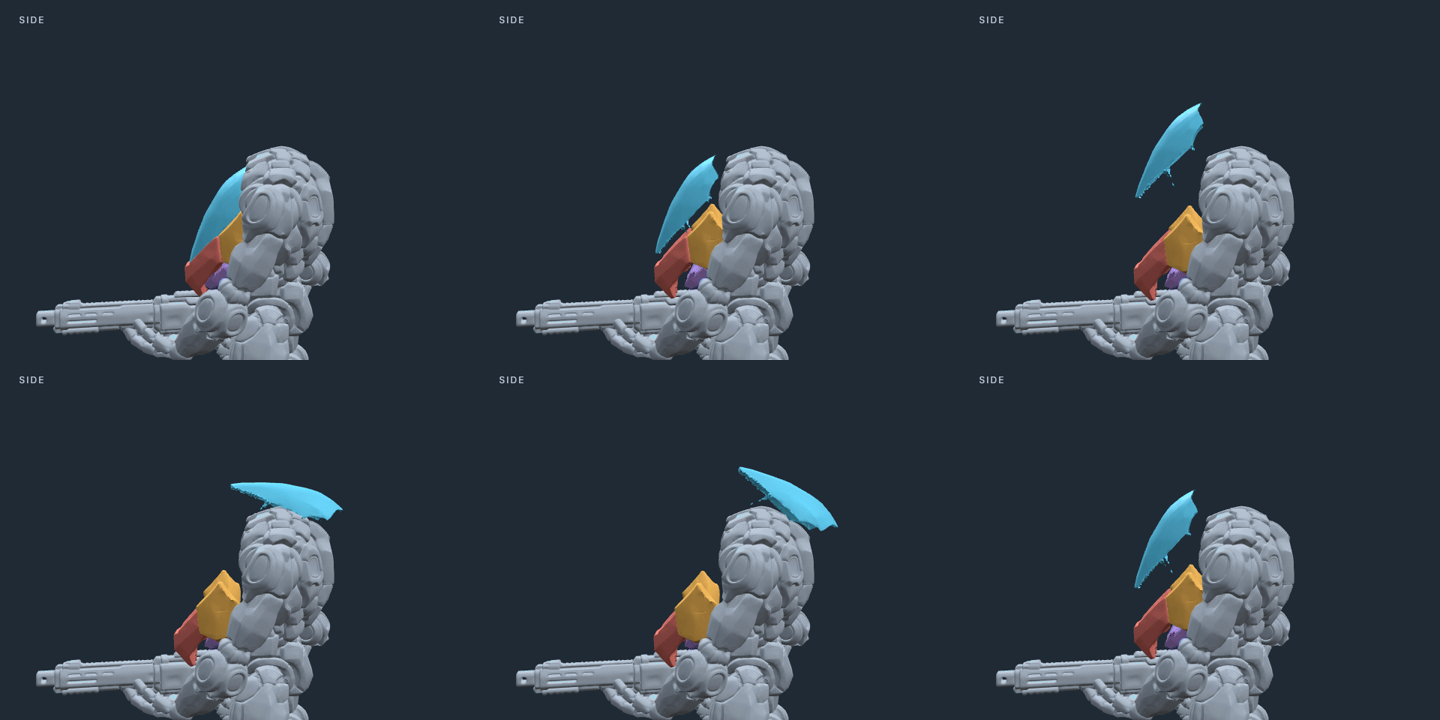
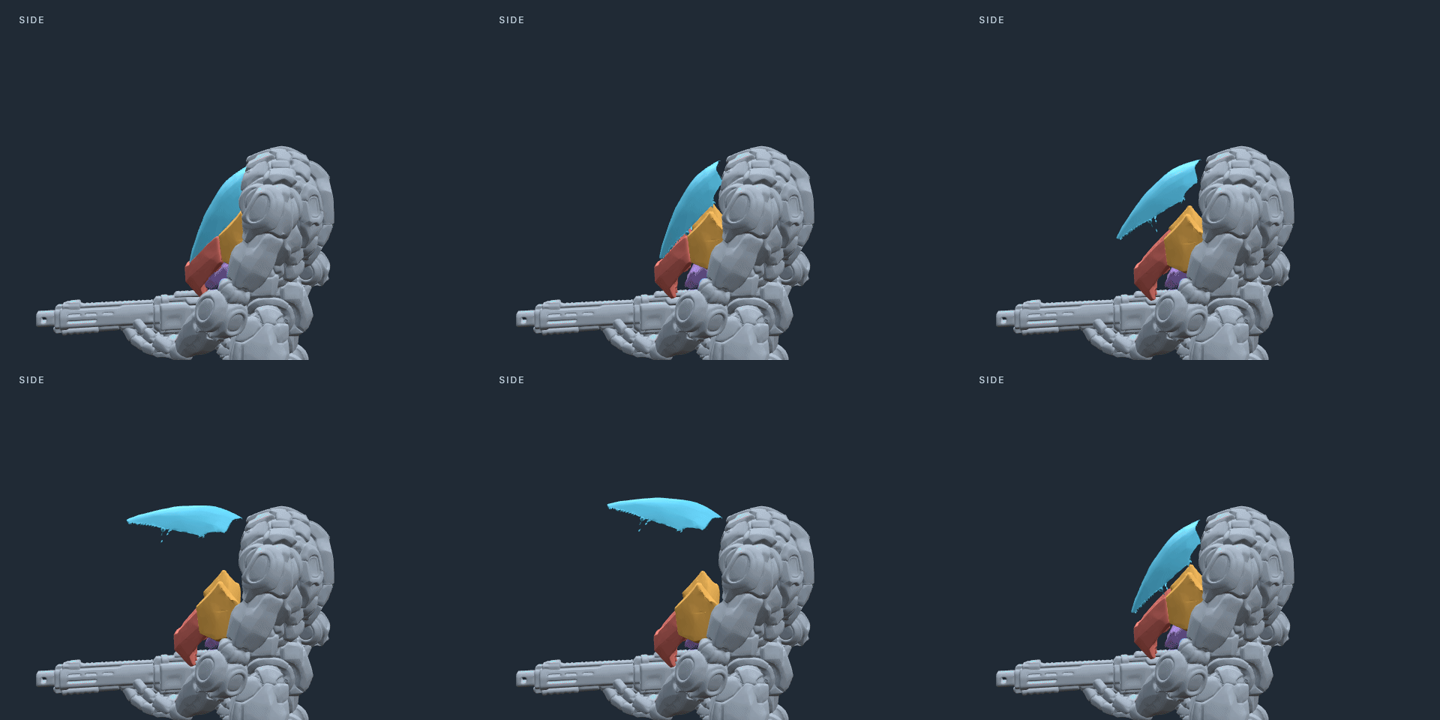
refine: lower canopy zenith to a forward brow brim

diff --git a/output/cockpit-mechanical/README.md b/output/cockpit-mechanical/README.md
@@ -1,8 +1,8 @@
-# Strokah mechanical cockpit — lean crown sweep
+# Strokah mechanical cockpit — low forward brim
 
 Saved review candidate on `codex/strokah-cockpit-mechanical`, based on current `main` (`be4cb5ad`) plus only the requested animation skills commit. No merge, publication, Unity integration, damage, limb-loss, melee, shield or ejection work.
 
-Both user corrections are applied: the chin has a short outward/downward stroke, and the canopy sweeps backward over the crown instead of lifting vertically into a tall open position. The canopy is treated as a thin pane. Its retained internal solid mass is excluded from the clearance envelope. Diagnostic colors identify the panels.
+The latest direction is applied: the chin keeps its short outward/downward stroke, and the canopy opens into a low, forward-projecting baseball-cap brim at brow height. Its pivot is at the upper edge; total pivot lift is 0.032 export units, down from 0.173 in the previous crown sweep. The canopy is treated as a thin pane. Its retained internal solid mass is excluded from the clearance envelope. Diagnostic colors identify the panels.
 
 ## Review
 
@@ -21,7 +21,7 @@ The original closed transforms are retained exactly. The glass preview uses the 
 
 | Role | Authored mesh | Motion at full opening, export units |
 |---|---|---|
-| Canopy | `tripo_part_61.001` | forward release, lift/tilt, then back over crown; 90° cam rotation; thin-pane clearance |
+| Canopy | `tripo_part_61.001` | short release, then tilt about the upper edge into a forward brim; 65° rotation; thin-pane clearance |
 | Left cheek | `tripo_part_57.004` | +0.045 sideways, +0.050 forward, −0.021 down |
 | Right cheek | `tripo_part_57.005` | −0.045 sideways, +0.050 forward, −0.021 down |
 | Chin | `tripo_part_new_0.001` | +0.026 forward, −0.021 down |
@@ -42,7 +42,7 @@ Native equivalent: select `CTRL_Cockpit_Open`, custom property `open_amount`. It
 
 - Four focused Node tests pass, including the actual accepted GLB, 200 bound-model reversal cycles, 1,000 scalar cycles, held pose, ancestor rotation, rigid unit scales, and exact reseating without limb/weapon transform drift.
 - Actual browser buttons were exercised: open, hold, close mid-cycle, reopen, fully close.
-- Reopened native-file parity: maximum matrix error 1.4901162e-7 across sampled forward and reverse states.
+- Reopened native-file parity: maximum matrix error 2.0861626e-7 across sampled forward and reverse states.
 - Native mesh/rest-bone preservation: all 196 original mesh geometries and all 62 rest bones match the accepted source. No ankle proportions, rest lengths, or mesh vertex coordinates changed.
 - Exact exported triangles sampled at 41 amounts. No new collision pairs relative to the inherited closed seams. Canopy clears all meshes throughout the main travel (amount >= 0.30). All four panels have zero surface intersections from 0.85 through full opening. The earlier inherited seam overlaps are recorded honestly in `export-clearance.json`.
 - The sweep is valid for the requested thin outer canopy and this service pose. The hidden solid canopy volume is intentionally excluded, as directed; it would intersect the torso on this tighter path. It is not an all-possible-weapon-pose clearance guarantee, a physics collision implementation, or player runtime proof.
